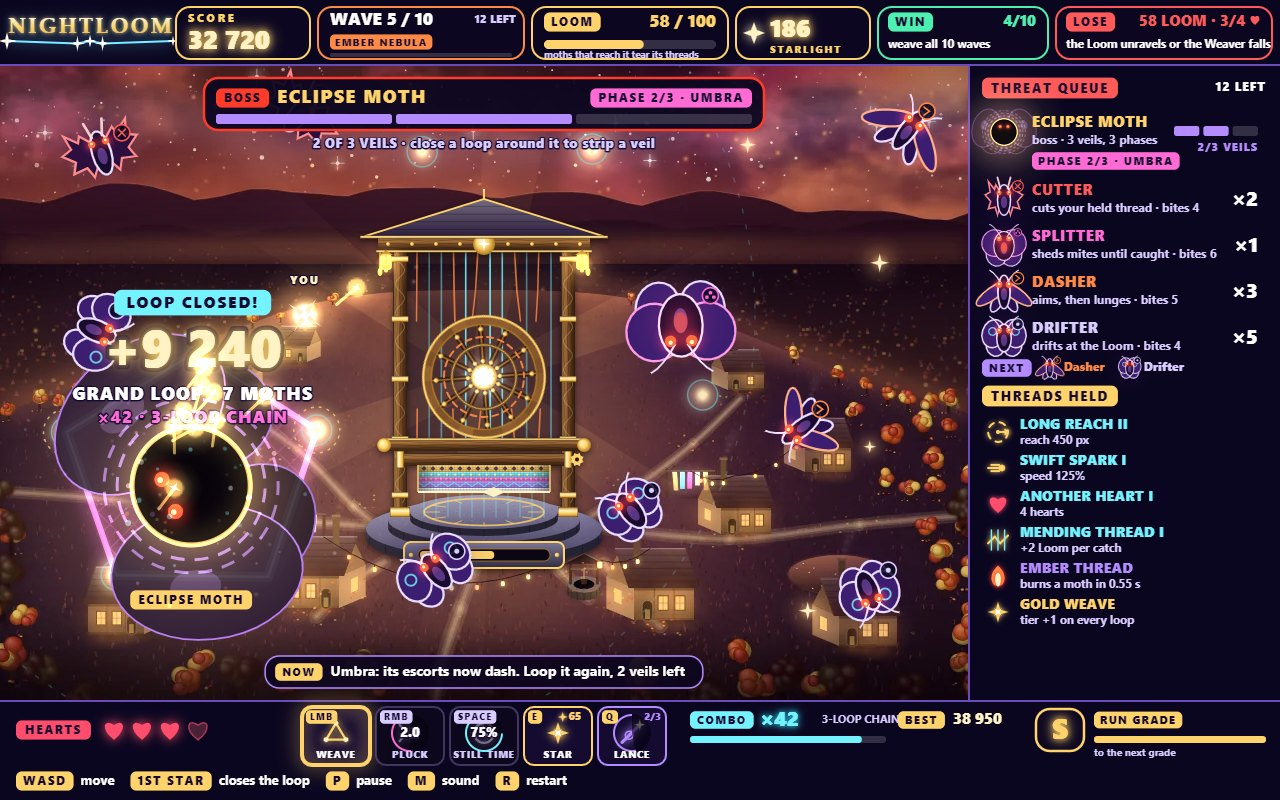
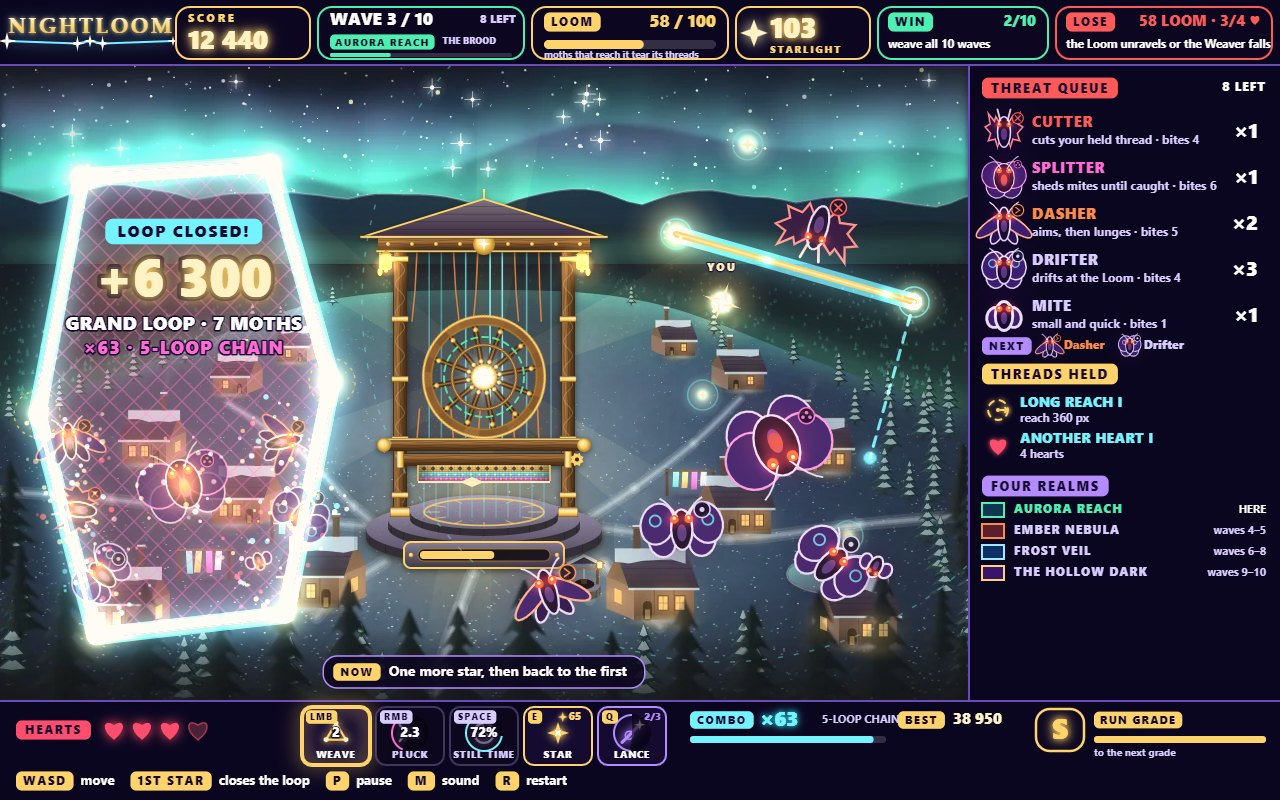
Make the woven loop the hero of the cover, keep threads gold, and open every wave with stars in reach
The cover (wave 3 in Aurora Reach, chosen over the Ember Nebula after comparing both contact sheets
for contrast) shows one six-star loop filling the western third of the field, just snapped shut
round seven moths, with the LOOP CLOSED callout in its clear upper half and a held thread in
progress on the eastern slope; the title's attract scene moves to the Ember wave so two realm
palettes still show. Threads draw a cyan halo with a solid gold core so they no longer bleach to
white, loop afterglows and net fills are thicker and brighter, and moths a loop catches dissolve in
gold for a moment instead of vanishing. The side panel lists the four realms with the current one
lit while there is room. Every wave now lays its stars out until at least three are within the
Weaver's reach, the NOW line says to walk toward the stars when fewer are, and wave 2 sends two
dashers instead of three. The callout clamps wider and its lines are a touch larger.

Verified: tools/check.mjs passes with no console errors; two shoots and two builds are byte
identical; every JPEG is under 256 KiB; the dossier text is 163591 bytes with every file whole; the
game scales and maps the mouse correctly at 1280x720, 1366x768, 1920x1080 and 1280x800.

diff --git a/game/src/render.js b/game/src/render.js
@@ -56,14 +56,23 @@ export function createRenderer(canvas) {
     ctx.shadowBlur = 0;
   }
 
+  /** A thread: a cyan halo added to the scene, then a solid gold core with a pale heart, so it stays gold over the glow. */
+  function threadStroke(color, alpha, width = 1) {
+    glowStroke(P.cyan, 16 * width, 28, 0.55 * alpha);
+    ctx.globalCompositeOperation = 'source-over';
+    glowStroke(color, 6 * width, 0, alpha);
+    glowStroke(P.goldLight, 2 * width, 0, 0.9 * alpha);
+    lighter(ctx);
+  }
+
   function fillNet(polygon, color, alpha, time) {
     ctx.save();
     poly(ctx, polygon);
     ctx.clip();
-    ctx.fillStyle = rgba(color, 0.13 * alpha);
+    ctx.fillStyle = rgba(color, 0.2 * alpha);
     ctx.fillRect(0, 0, FIELD.width, FIELD.height);
-    ctx.strokeStyle = rgba(color, 0.24 * alpha);
-    ctx.lineWidth = 1.2;
+    ctx.strokeStyle = rgba(color, 0.32 * alpha);
+    ctx.lineWidth = 1.5;
     ctx.beginPath();
     const shift = (time * 10) % 24;
     for (let d = -FIELD.height; d < FIELD.width + FIELD.height; d += 24) {
@@ -86,8 +95,24 @@ export function createRenderer(canvas) {
       lighter(ctx);
       ctx.lineJoin = 'round';
       poly(ctx, glow.polygon);
-      glowStroke(color, 6, 18, 0.75 * alpha);
-      for (const p of glow.polygon) drawSprite(ctx, sprites.star, p.x, p.y, 0.9, 0.6 * alpha);
+      threadStroke(color === P.cyan ? P.cyanDeep : color, alpha, 1.1);
+      for (const p of glow.polygon) drawSprite(ctx, sprites.star, p.x, p.y, 1.2, 0.8 * alpha);
+      ctx.restore();
+    }
+  }
+
+  /** Moths a loop just caught dissolve in gold for a moment, so the catch is seen, not only its burst. */
+  function drawCaught(state) {
+    for (const moth of state.effects.caught) {
+      const k = moth.gone;
+      ctx.save();
+      ctx.globalAlpha = 1 - k * k;
+      ctx.translate(moth.x, moth.y);
+      ctx.scale(1 - 0.4 * k, 1 - 0.4 * k);
+      ctx.translate(-moth.x, -moth.y);
+      drawMoth(ctx, moth, state.time);
+      lighter(ctx);
+      drawSprite(ctx, sprites.weaver, moth.x, moth.y, (moth.radius / 30) * (1 + k), 0.9);
       ctx.restore();
     }
   }
@@ -136,8 +161,7 @@ export function createRenderer(canvas) {
         const amp = weave.pluckWave * 18 * Math.sin(state.time * 45 + i);
         ctx.quadraticCurveTo((a.x + b.x) / 2 - ((b.y - a.y) / d) * amp, (a.y + b.y) / 2 + ((b.x - a.x) / d) * amp, b.x, b.y);
       }
-      glowStroke(P.cyan, 12, 24, 0.55);
-      glowStroke(P.goldLight, 3.5, 0, 1);
+      threadStroke(P.gold, 1);
       for (let i = 0; i + 1 < points.length; i += 1) {
         for (let k = 0; k < 2; k += 1) {
           const t = (state.time * 0.55 + k * 0.5 + i * 0.21) % 1;
@@ -147,14 +171,14 @@ export function createRenderer(canvas) {
     }
     if (weave.active) {
       const last = points[points.length - 1];
-      ctx.strokeStyle = rgba(P.cyan, 0.6);
-      ctx.lineWidth = 2.5;
-      ctx.setLineDash([8, 7]);
+      ctx.strokeStyle = rgba(P.cyan, 0.75);
+      ctx.lineWidth = 3;
+      ctx.setLineDash([10, 8]);
       ctx.lineDashOffset = -state.time * 60;
       poly(ctx, [last, { x: weave.cursorX, y: weave.cursorY }], false);
       ctx.stroke();
       ctx.setLineDash([]);
-      drawSprite(ctx, sprites.spark, weave.cursorX, weave.cursorY, 1.4, 0.9);
+      drawSprite(ctx, sprites.spark, weave.cursorX, weave.cursorY, 1.6, 0.9);
     }
     if (weave.cut) {
       const p = weave.cut.progress;
@@ -168,10 +192,10 @@ export function createRenderer(canvas) {
     for (const flash of weave.flashes) {
       const alpha = (1 - flash.age / WEAVE.flash) ** 1.5;
       poly(ctx, flash.polygon);
-      ctx.fillStyle = rgba(P.goldDeep, 0.2 * alpha);
+      ctx.fillStyle = rgba(P.goldDeep, 0.28 * alpha);
       ctx.fill();
-      glowStroke(P.cyan, 10, 30, 0.8 * alpha);
-      glowStroke('#ffffff', 2.5 + 2 * alpha, 18, alpha);
+      glowStroke(P.cyan, 14, 36, 0.8 * alpha);
+      glowStroke('#ffffff', 3 + 3 * alpha, 18, alpha);
     }
     ctx.restore();
   }
@@ -245,6 +269,7 @@ export function createRenderer(canvas) {
     drawAfterglows(state);
     if (!lost) drawAnchorStars(state);
     for (const moth of state.moths) if (moth.alive) drawMoth(ctx, moth, state.time);
+    drawCaught(state);
     drawThreads(state);
     drawLances(ctx, state.abilities.lances, state.time);
     if (!lost) drawWeaver(state);

diff --git a/game/src/hud/sidepanel.js b/game/src/hud/sidepanel.js
@@ -41,6 +41,23 @@ function row(ctx, x, y, w, kind, count, boss, time) {
   } else if (count > 0) label(ctx, `×${count}`, x + w - 8, y + 22, 20, P.text, 'right');
 }
 
+/** The four realms with their waves; in play the one the night is in is lit. */
+function realmList(ctx, x, w, inner, cy, current) {
+  tag(ctx, 'FOUR REALMS', inner, cy, P.violet, 13);
+  REALMS.forEach((realm, i) => {
+    const ry = cy + 24 + i * 21;
+    const lit = current < 0 || i === current;
+    ctx.fillStyle = realm.sky;
+    ctx.strokeStyle = realm.accent;
+    ctx.lineWidth = 2;
+    ctx.fillRect(inner, ry - 7, 22, 14);
+    ctx.strokeRect(inner, ry - 7, 22, 14);
+    label(ctx, realm.name.toUpperCase(), inner + 32, ry, 12, lit ? realm.accent : P.textSoft, 'left', 1);
+    glowText(ctx, i === current ? 'HERE' : `waves ${realm.first}–${realm.last}`, x + w - 14, ry, { ...SOFT, size: 11, align: 'right', color: lit ? P.text : P.textSoft });
+  });
+  return 34 + REALMS.length * 21;
+}
+
 export function drawSidePanel(ctx, state, ui, title) {
   const x = VIEW.width - LAYOUT.side;
   const y = ARENA.y;
@@ -80,34 +97,22 @@ export function drawSidePanel(ctx, state, ui, title) {
       nx += 24 + MOTH_INFO[kind].name.length * 7 + 14;
     }
     cy += 28;
-  } else {
-    cy += 14;
-    tag(ctx, 'FOUR REALMS', inner, cy, P.violet, 13);
-    REALMS.forEach((realm, i) => {
-      const ry = cy + 24 + i * 21;
-      ctx.fillStyle = realm.sky;
-      ctx.strokeStyle = realm.accent;
-      ctx.lineWidth = 2;
-      ctx.fillRect(inner, ry - 7, 22, 14);
-      ctx.strokeRect(inner, ry - 7, 22, 14);
-      label(ctx, realm.name.toUpperCase(), inner + 32, ry, 12, realm.accent, 'left', 1);
-      glowText(ctx, `waves ${realm.first}–${realm.last}`, x + w - 14, ry, { ...SOFT, size: 11, align: 'right' });
-    });
-    cy += 34 + REALMS.length * 21;
-  }
+  } else cy += realmList(ctx, x, w, inner, cy + 14, -1) + 14;
   tag(ctx, 'THREADS HELD', inner, cy, P.gold, 13);
   cy += 18;
   const held = heldCards(state.upgrades);
   if (title || held.length === 0) {
     const lines = title ? ['One card after every wave: ten threads,', 'a fourth for starlight, relics after the boss.'] : ['none yet · one card after every wave'];
     lines.forEach((text, i) => glowText(ctx, text, inner, cy + 16 + i * 18, { ...SOFT, size: 12.5 }));
-    return;
+    cy += 24 + lines.length * 18;
+  } else {
+    const rowH = Math.max(26, Math.min(36, (y + h - 10 - cy) / held.length));
+    for (const card of held) {
+      drawUpgradeIcon(ctx, card.id, inner + 16, cy + rowH / 2, Math.min(22, rowH - 10));
+      label(ctx, card.name.toUpperCase(), inner + 38, cy + rowH / 2 - (rowH > 30 ? 7 : 0), 13.5, RARITY_COLORS[card.rarity], 'left', 0.5);
+      if (rowH > 30) glowText(ctx, card.stat, inner + 38, cy + rowH / 2 + 9, { ...SOFT, size: 11.5 });
+      cy += rowH;
+    }
   }
-  const rowH = Math.max(26, Math.min(36, (y + h - 10 - cy) / held.length));
-  for (const card of held) {
-    drawUpgradeIcon(ctx, card.id, inner + 16, cy + rowH / 2, Math.min(22, rowH - 10));
-    label(ctx, card.name.toUpperCase(), inner + 38, cy + rowH / 2 - (rowH > 30 ? 7 : 0), 13.5, RARITY_COLORS[card.rarity], 'left', 0.5);
-    if (rowH > 30) glowText(ctx, card.stat, inner + 38, cy + rowH / 2 + 9, { ...SOFT, size: 11.5 });
-    cy += rowH;
-  }
+  if (!title && y + h - cy >= 150) realmList(ctx, x, w, inner, cy + 22, Math.max(0, state.realm));
 }

diff --git a/game/src/hud/callouts.js b/game/src/hud/callouts.js
@@ -6,6 +6,7 @@ import { BOSSES, bossPhase, findBoss } from '../bosses.js';
 import { waveDefinition } from '../waves.js';
 import { PHASE } from '../world.js';
 import { starCost } from '../starlight.js';
+import { starInReach } from '../stars.js';
 import { pill, segments, tag, tagCentred, tagWidth } from './widgets.js';
 
 const THREAD_TIPS = ['Drag the thread to a second star, then a third', 'One more star, then back to the first', 'Back to the first star snaps the loop shut'];
@@ -57,12 +58,12 @@ export function drawCallout(ctx, state) {
   const top = state.banner ? 330 : findBoss(state.moths) ? 180 : 100;
   ctx.save();
   ctx.globalAlpha = alpha;
-  ctx.translate(Math.max(150, Math.min(FIELD.width - 150, c.x)), Math.max(top, Math.min(FIELD.height - 110, c.y - 100 - c.age * 14)));
+  ctx.translate(Math.max(170, Math.min(FIELD.width - 170, c.x)), Math.max(top, Math.min(FIELD.height - 110, c.y - 100 - c.age * 14)));
   ctx.scale(pop, pop);
   tagCentred(ctx, 'LOOP CLOSED!', 0, -62, P.cyan, 16, 12);
   glowText(ctx, `+${formatScore(c.points)}`, 0, -12, { size: 52, color: P.goldLight, glow: P.gold, blur: 22, outline: P.ink });
-  glowText(ctx, `${c.tier} · ${c.count} MOTH${c.count === 1 ? '' : 'S'}`, 0, 30, { size: 18, color: P.text, outline: P.ink, letterSpacing: 1 });
-  glowText(ctx, `×${Math.round(c.multiplier * 10) / 10}${c.chain > 1 ? ` · ${c.chain}-LOOP CHAIN` : ''}`, 0, 54, { size: 17, color: c.chain > 1 ? P.magenta : P.gold, outline: P.ink, letterSpacing: 1 });
+  glowText(ctx, `${c.tier} · ${c.count} MOTH${c.count === 1 ? '' : 'S'}`, 0, 31, { size: 18.5, color: P.text, outline: P.ink, letterSpacing: 0.5 });
+  glowText(ctx, `×${Math.round(c.multiplier * 10) / 10}${c.chain > 1 ? ` · ${c.chain}-LOOP CHAIN` : ''}`, 0, 56, { size: 18, color: c.chain > 1 ? P.magenta : P.gold, outline: P.ink, letterSpacing: 1 });
   ctx.restore();
 }
 
@@ -74,6 +75,7 @@ export function objective(state) {
   const boss = findBoss(state.moths);
   if (boss) return BOSSES[boss.kind].tips[bossPhase(boss)].replace('#', boss.veils);
   if (starlight.have >= starCost(state) && !stars.some((star) => Math.hypot(star.x - weaver.x, star.y - weaver.y) < 150)) return `No star near you: E plants one here for ${starCost(state)} starlight`;
+  if (stars.filter((star) => starInReach(star, weaver.x, weaver.y, weaver.reach)).length < 3) return 'Fewer than three stars in your circle: walk (WASD) toward the stars to weave a loop';
   return waveDefinition(state.wave).tip;
 }
 

diff --git a/game/src/world.js b/game/src/world.js
@@ -48,7 +48,12 @@ export function startWave(state, wave) {
   const definition = waveDefinition(wave);
   const realm = realmIndex(wave);
   state.wave = wave;
-  state.stars = state.attract ? placeAnchorStars(state.random, ATTRACT.stars, ATTRACT.top + 12, ATTRACT.bottom - 16) : placeAnchorStars(state.random, STARS.count, undefined, undefined, state.stars.filter((star) => star.placed));
+  // In play the stars are laid out again until at least three stand within the Weaver's reach, so every wave opens with a loop to hand.
+  const { weaver } = state;
+  for (let tries = 0; tries < 12; tries += 1) {
+    state.stars = state.attract ? placeAnchorStars(state.random, ATTRACT.stars, ATTRACT.top + 12, ATTRACT.bottom - 16) : placeAnchorStars(state.random, STARS.count, undefined, undefined, state.stars.filter((star) => star.placed));
+    if (state.attract || state.stars.filter((star) => starInReach(star, weaver.x, weaver.y, weaver.reach)).length >= 3) break;
+  }
   state.spawnQueue = waveSpawnList(wave, state.random);
   Object.assign(state, { waveTotal: state.spawnQueue.length, spawnTimer: SPAWN.firstDelay, phase: PHASE.PLAY, phaseTime: 0, hitThisWave: false, offer: [] });
   state.stats.waveCaptured = 0;
@@ -119,6 +124,8 @@ function stepWeaving(state, control) {
 
 function catchMoth(state, moth, worths, kind) {
   moth.alive = false;
+  moth.gone = 0;
+  state.effects.caught.push(moth);
   worths.push(moth.points);
   state.stats.captured += 1;
   state.stats.waveCaptured += 1;

diff --git a/game/src/waves.js b/game/src/waves.js
@@ -4,7 +4,7 @@ export const WAVE_COUNT = 10;
 
 export const WAVES = [
   { name: 'First Light', tagline: 'Drifters wander in toward the Loom', tip: 'Loop the Drifters before they reach the Loom: hold LMB on a star, drag star to star, back to the first', moths: { drifter: 6 } },
-  { name: 'Wings in the Dark', tagline: 'Dashers aim, then lunge', tip: 'Dashers lunge where you stand: step aside, then loop them while they aim', moths: { drifter: 7, dasher: 3 } },
+  { name: 'Wings in the Dark', tagline: 'Dashers aim, then lunge', tip: 'Dashers lunge where you stand: step aside, then loop them while they aim', moths: { drifter: 7, dasher: 2 } },
   { name: 'The Brood', tagline: 'Splitters shed mites until caught', tip: 'Loop the Splitters before they shed; E plants a star where you stand', moths: { drifter: 7, dasher: 3, splitter: 2 } },
   { name: 'Severance', tagline: 'Cutters chew through held threads', tip: 'Cutters chew a held thread: close loops fast, or pluck them off (RMB)', moths: { drifter: 7, dasher: 4, splitter: 2, cutter: 2 } },
   { name: 'The Eclipse Moth', tagline: 'Close three loops around it', tip: 'Close a loop around the Eclipse Moth to strip a veil', boss: { kind: 'eclipse', veils: 3 }, moths: { drifter: 4, dasher: 2 } },

diff --git a/game/src/particles.js b/game/src/particles.js
@@ -1,6 +1,6 @@
 // Sparks, floating labels, screen shake and colour flashes.
 
-export const createEffects = () => ({ particles: [], texts: [], shake: 0, shakeX: 0, shakeY: 0, redFlash: 0, goldFlash: 0, cyanFlash: 0 });
+export const createEffects = () => ({ particles: [], texts: [], caught: [], shake: 0, shakeX: 0, shakeY: 0, redFlash: 0, goldFlash: 0, cyanFlash: 0 });
 
 export function burst(effects, random, x, y, { count = 16, colors = ['#ffd36b'], speed = 220, life = 0.7, size = 3, drag = 2.5, gravity = 0 } = {}) {
   for (let i = 0; i < count; i += 1) {
@@ -31,6 +31,7 @@ export function stepEffects(effects, random, dt) {
   if (effects.particles.length > 900) effects.particles.splice(0, effects.particles.length - 900);
   for (const t of effects.texts) t.age += dt;
   effects.texts = effects.texts.filter((t) => t.age < t.life);
+  effects.caught = effects.caught.filter((moth) => (moth.gone += dt / 0.6) < 1);
   effects.shake = Math.max(0, effects.shake - dt * 40);
   effects.shakeX = effects.shake > 0 ? (random.next() * 2 - 1) * effects.shake : 0;
   effects.shakeY = effects.shake > 0 ? (random.next() * 2 - 1) * effects.shake : 0;

diff --git a/game/src/main.js b/game/src/main.js
@@ -76,7 +76,7 @@ function runGame() {
 
   function backToTitle() {
     world = createWorld((gameSeed ^ 0x9e3779b9) >>> 0, true);
-    startWave(world, 3);
+    startWave(world, 4);
     pilot = createAttractPilot();
     screen = SCREEN_TITLE;
     announce('NIGHTLOOM. Click to begin.');

diff --git a/README.md b/README.md
@@ -33,7 +33,8 @@ and the two banners: **WIN** (weave all 10 waves, with the waves woven so far) a
 unravels or the Weaver falls, with the Loom's health and the hearts left). The right-hand panel is the
 **THREAT QUEUE**: every kind of moth still coming this wave with its icon, name, one-line behaviour and
 bite, the boss with its veils and phase, and what spawns next; beneath it **THREADS HELD** lists the
-cards taken with their level and live stat. The bottom bar has the hearts, the **hotbar** (LMB WEAVE ·
+cards taken with their level and live stat, and while there is room the **FOUR REALMS** with the one
+the night is in lit. The bottom bar has the hearts, the **hotbar** (LMB WEAVE ·
 RMB PLUCK · SPACE STILL TIME · E STAR with its starlight cost · Q LANCE with its charges, each with a
 cooldown sweep), the combo meter, the high score and the run grade (S to D, the score against par). A
 boss bar crosses the top of the field while a boss lives, a realm title card opens each realm, and a
@@ -45,8 +46,9 @@ Weaver and the **LOOP CLOSED** callout carry words.
 
 - **WASD / arrow keys** move the Weaver. Only stars inside its reach circle can be woven.
 - **Hold the left mouse button** on a star, then drag star to star to chain glowing threads.
-  **Return to the first star** to snap the loop shut. Bigger loops score higher tiers, more moths
-  multiply the catch, and loops closed within five seconds chain into a combo.
+  **Return to the first star** to snap the loop shut: the moths inside dissolve in gold. Bigger loops
+  score higher tiers, more moths multiply the catch, and loops closed within five seconds chain into
+  a combo. Every wave opens with at least three stars inside the reach circle.
 - **Right mouse button** plucks the held thread, whipping away and stunning the moths along it (or,
   with no thread held, the moths around the Weaver). Four seconds to recharge.
 - **Space** fires Still Time, slowing every moth for a few seconds; it recharges over 14 s.
@@ -98,7 +100,9 @@ under `game/art/`, and every sound is synthesised with the Web Audio API. `?seed
   `--check` repaints and compares without writing.
 - `node tools/shoot.mjs` serves the repository, drives headless Chrome over the DevTools protocol
   and writes the scenes in `shots.json` (`?shot=play|title|upgrade|results&seed=N`, staged by
-  `tools/stage.mjs`, which the game imports only under `?shot=`) to `screenshots/`.
+  `tools/stage.mjs`, which the game imports only under `?shot=`) to `screenshots/`. The cover is
+  wave 3 in Aurora Reach; `?shot=play&realm=1` stages the same moment in the Ember Nebula round
+  the Eclipse Moth.
 - `node tools/contact.mjs` lays the screenshots out as the judge's contact sheet (the cover inside
   768x480, the rest small beneath it) in `out/contact.jpg`.
 - `node tools/check.mjs` plays the game through in headless Chrome (start, every art file loading,
